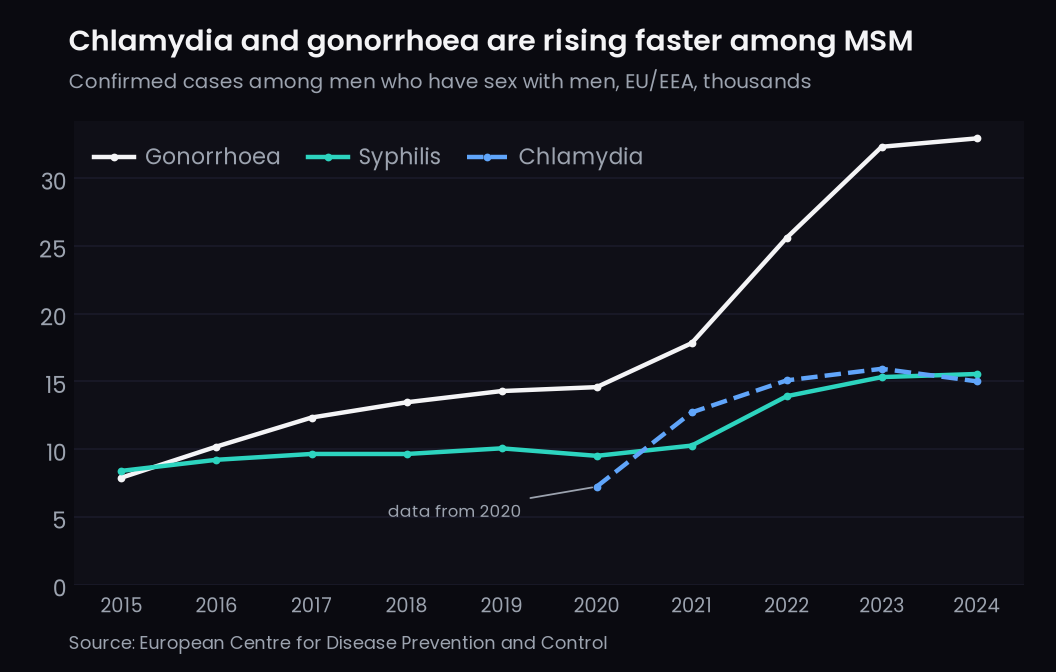
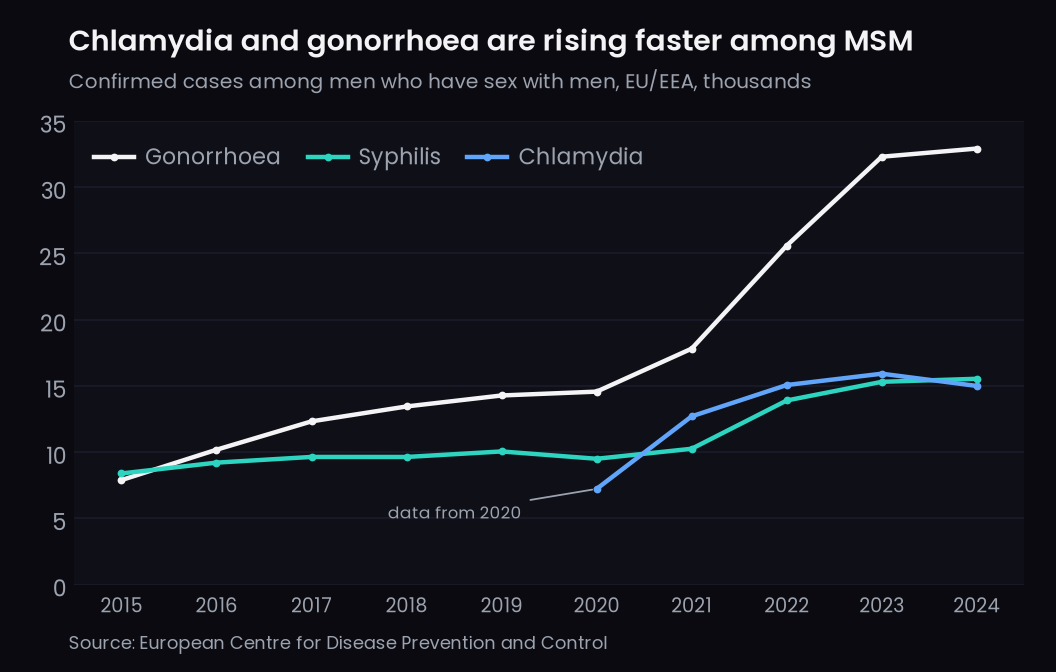
Add Y max and make all lines solid

diff --git a/data/generate-charts.py b/data/generate-charts.py
@@ -81,7 +81,7 @@ def vals(d):
     return [d.get(y) for y in YEARS]
 
 
-def style_ax(ax):
+def style_ax(ax, ymax=None):
     ax.yaxis.grid(True, color=GRID, linewidth=0.8, zorder=0)
     ax.xaxis.grid(False)
     ax.set_axisbelow(True)
@@ -95,7 +95,7 @@ def style_ax(ax):
         lbl.set_fontproperties(POPPINS)
         lbl.set_color(GRAY)
     ax.set_xlim(2014.5, 2024.5)
-    ax.set_ylim(bottom=0)
+    ax.set_ylim(bottom=0, top=ymax)
     ax.set_ylabel('')
 
 
@@ -137,9 +137,8 @@ fig, ax = make_fig(
 )
 ax.plot(YEARS, vals(gon_gen), color=WHITE, marker='o', label='Gonorrhoea', **LW)
 ax.plot(YEARS, vals(syp_gen), color=TEAL,  marker='o', label='Syphilis',   **LW)
-ax.plot(YEARS, vals(chl_gen), color=BLUE,  marker='o', label='Chlamydia',
-        linestyle='dashed', **LW)
-style_ax(ax)
+ax.plot(YEARS, vals(chl_gen), color=BLUE,  marker='o', label='Chlamydia', **LW)
+style_ax(ax, ymax=250)
 finish(fig, ax, 'chart-sti-general.png')
 
 
@@ -157,9 +156,8 @@ fig, ax = make_fig(
 )
 ax.plot(YEARS,     vals(gon_msm), color=WHITE, marker='o', label='Gonorrhoea', **LW)
 ax.plot(YEARS,     vals(syp_msm), color=TEAL,  marker='o', label='Syphilis',   **LW)
-ax.plot(chl_years, chl_vals,      color=BLUE,  marker='o', label='Chlamydia',
-        linestyle='dashed', **LW)
-style_ax(ax)
+ax.plot(chl_years, chl_vals,      color=BLUE,  marker='o', label='Chlamydia', **LW)
+style_ax(ax, ymax=35)
 ax.annotate('data from 2020',
             xy=(2020, chl_msm[2020]),
             xytext=(2017.8, 5),
